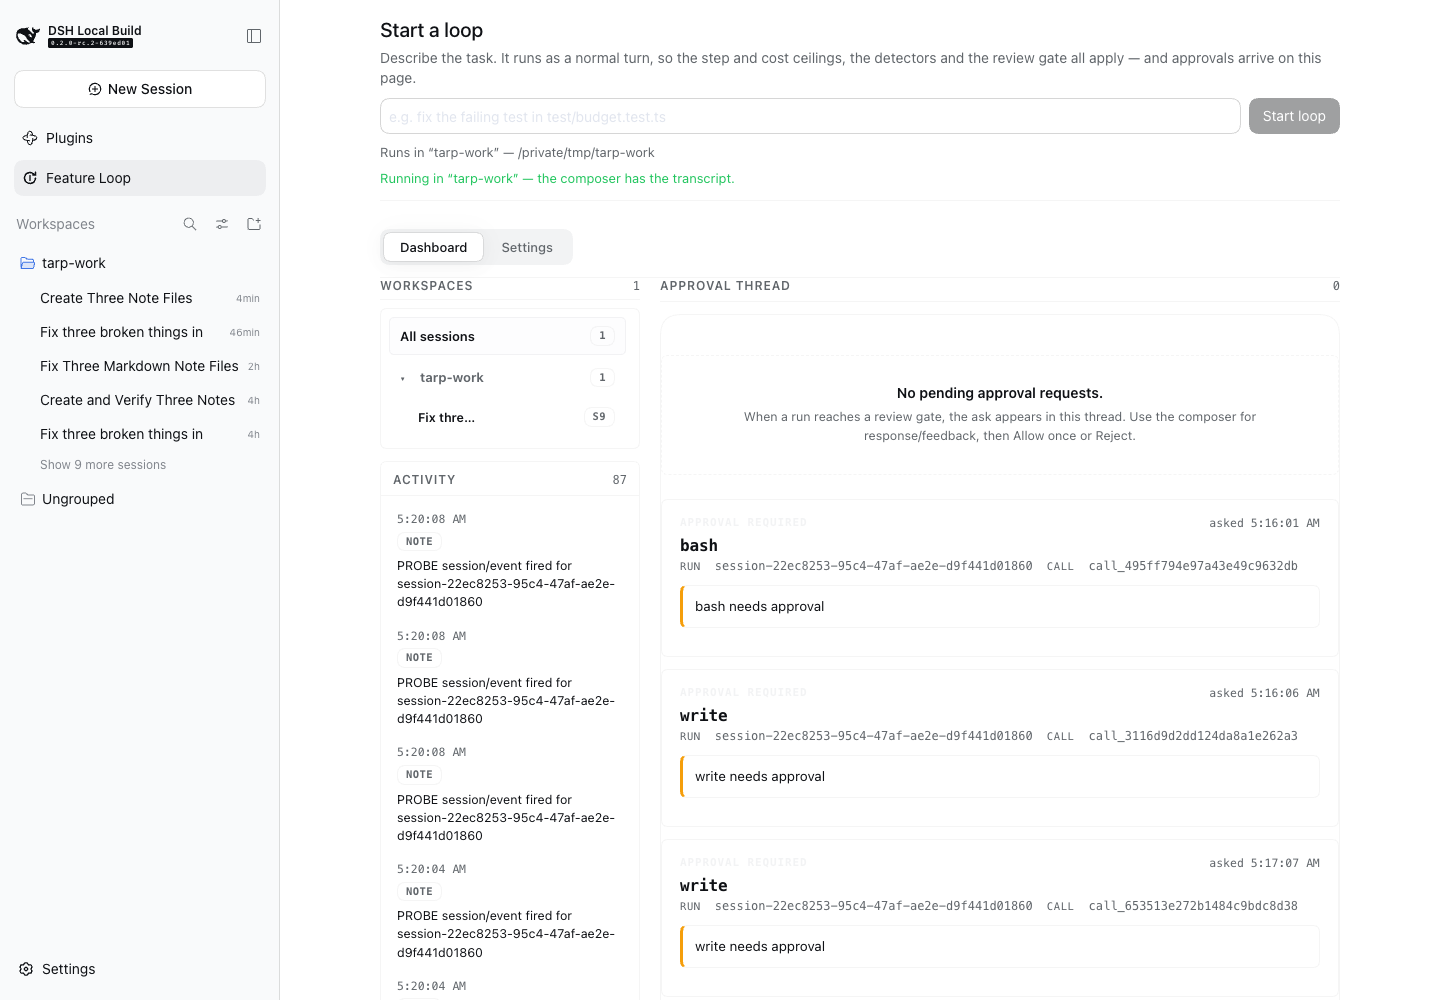
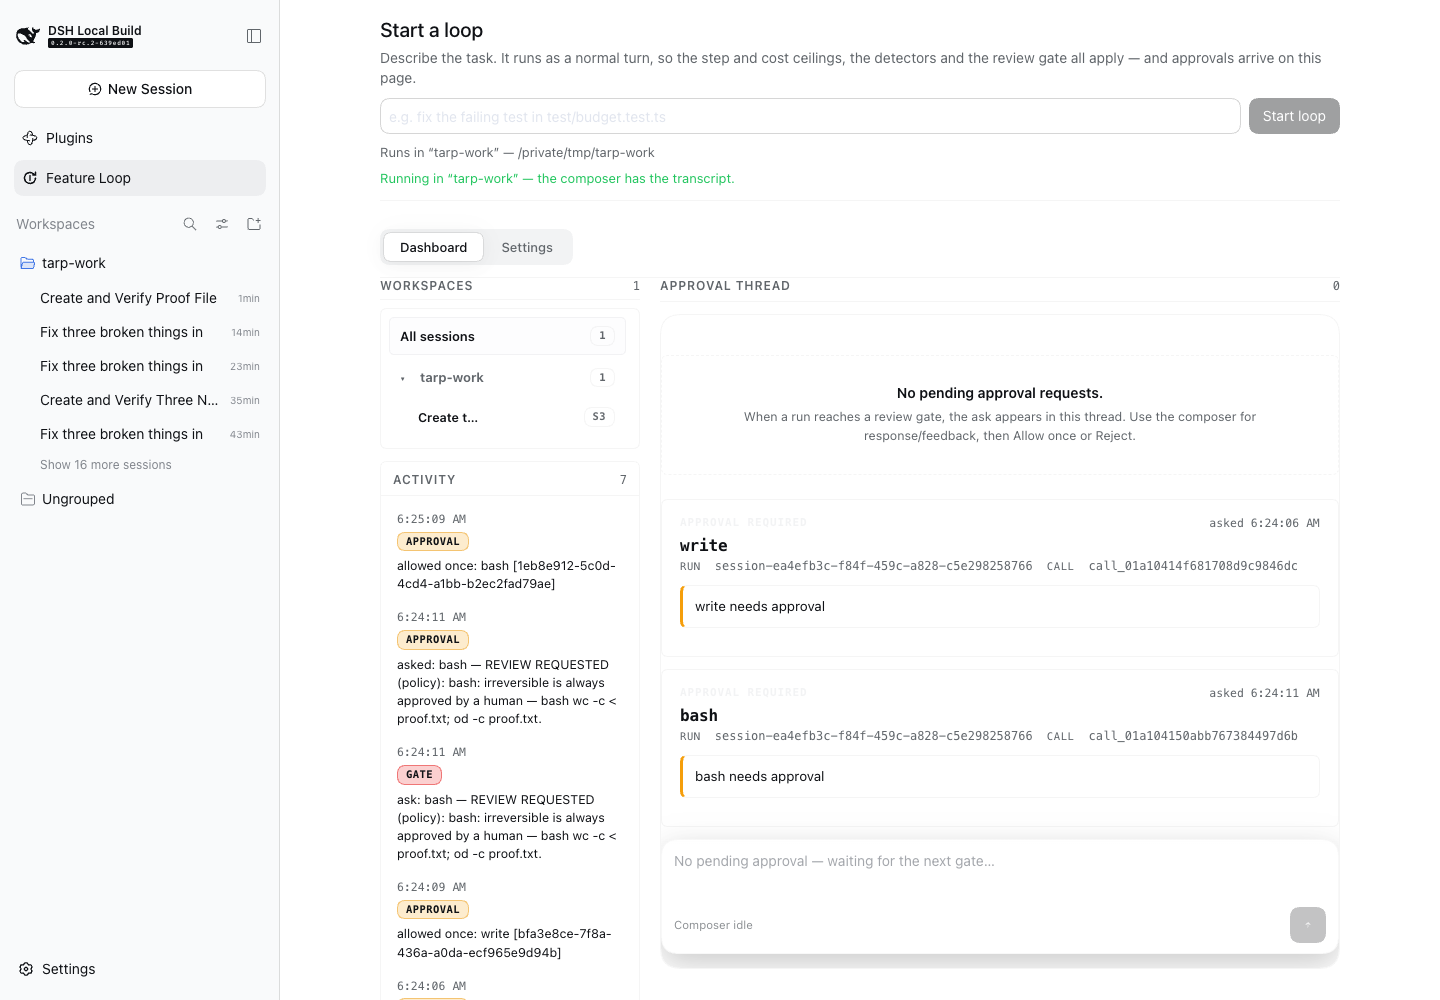
Stop the run record from depending on a load that can never settle
`runlog.ts` was imported with `await import('./runlog.ts')` inside the turn
closer, justified as keeping node:fs out of the plugin's static graph — a
justification that stopped being true when `readFileSync` became a static import
at the top of the file. A dynamic load that never settles leaves the promise
pending FOREVER: no rejection, so the caller's .catch never runs, no record is
written, and nothing is logged. Static now, so it resolves at load.

Also registers the history listener with { global: true }, the documented switch
for "receive the event regardless of context filter checks" — the harness emits
session/event with this bound to a per-session scope carrier, and a hook a scope
filter rejects is dropped silently.

And records §1bw, which is honest about what is still wrong: on a real dsh web
run the listener fires (70 events), a turn/end is among them, asTurnEnd accepts
it, recordTurn is entered — and no record lands. Two candidate causes remain
unseparated, so the entry says so instead of asserting one. It also corrects the
causal claim I attached to §1bp–§1bv: those figures were each measured and each
wrong, but "the harness path never wrote a record" was an INFERENCE from the
absence of one, and the listener is demonstrably running.

diff --git a/src/plugin.ts b/src/plugin.ts
@@ -78,13 +78,13 @@ import { readFileSync } from 'node:fs'
 import { homedir } from 'node:os'
 import { join } from 'node:path'
 import { budgetStopText, budgetWarnText, escalationText, reviewText } from './messages.ts'
-// Type-only: `summarize` reads data, never the disk, so the module ships no
-// fs imports into the plugin's graph (the same stance `metrics.ts` documents
-// for its own `RunRecord` import). The history I/O (`runlog.ts`) is loaded
-// dynamically only when a deployment configures `optimize.history`, so a
-// deployment that never asked for run-history keeps the plugin's graph
-// exactly as it was before this feature existed.
+// Type-only: `summarize` reads data, never the disk, so that module ships no
+// fs imports of its own. `runlog.ts` — which does touch the disk — is imported
+// STATICALLY on purpose; it used to be a dynamic import inside the turn closer,
+// and a load that never settles loses the record with no error at all
+// (KNOWN-ISSUES §1bw). A static import resolves at load, before any run.
 import { summarize } from './metrics.ts'
+import { appendRecord, readRecords, specFingerprint, taskKeyOf } from './runlog.ts'
 import type { RunRecord } from './runlog.ts'
 import type { RunOutcome } from './runlog.ts'
 
@@ -928,14 +928,22 @@ function outcomeOf(reasonKind: string, policy: FeatureLoopPolicy, steps: number)
  * turns a failed append into a feed line, and this function itself never
  * catches: a record that failed to land must be visible, not swallowed.
  *
- * Two loads are dynamic, both deliberate:
+ * `runlog.ts` is imported STATICALLY, and that is a fix rather than a style:
+ * it used to be `await import('./runlog.ts')` here, justified as keeping
+ * `node:fs` out of the plugin's static graph — but `readFileSync` from
+ * `node:fs` has been a static import at the top of this file for some time, so
+ * the justification was stale and the cost was the defect.
  *
- * - `runlog.ts` (fs + crypto) is imported only here so the plugin's static
- *   graph ships no `node:fs` (see the import comment at the top of this
- *   module). `metrics.ts` is static because it is pure arithmetic.
- * - `optimize.ts` is NOT imported: `planEnvelope`'s P95 derivation belongs to
- *   the CLI's pre-run planning, not to a per-turn hook. What the dashboard
- *   needs is the roll-up (`summarize`), which is already imported statically.
+ * Measured 2026-10-04 on a real web run: the listener fired, `asTurnEnd`
+ * accepted the `turn/end`, this function was entered (its first statement
+ * printed a feed note), and the very next statement — the dynamic import —
+ * never resolved. No rejection, so the caller's `.catch` never ran, no record
+ * was written and nothing was logged. A load that never settles loses the write
+ * silently, which is the worst shape a dependency can have.
+ *
+ * `optimize.ts` is still NOT imported: `planEnvelope`'s P95 derivation belongs to
+ * the CLI's pre-run planning, not to a per-turn hook. What the dashboard needs is
+ * the roll-up (`summarize`), which is already imported statically.
  *
  * @param input - the closed turn and everything the record is built from.
  */
@@ -977,7 +985,6 @@ function turnStartTime(session: unknown, turn: number): number | undefined {
 
 async function recordTurn(input: TurnRecordInput): Promise<void> {
   const { session, event, openedAt, options, policyFor, resolveAgent, state, historyPath } = input
-  const runlog = await import('./runlog.ts')
   const agent = agentOfSession(session, resolveAgent)
   const policy = policyFor(agent)
   const snapshot = policy.budget?.snapshot()
@@ -990,7 +997,7 @@ async function recordTurn(input: TurnRecordInput): Promise<void> {
     endedAt: event.time ?? now,
     pass: 1,
     passes: 1,
-    taskKey: spec === undefined ? 'none' : runlog.taskKeyOf(spec.goal),
+    taskKey: spec === undefined ? 'none' : taskKeyOf(spec.goal),
     outcome: outcomeOf(event.reasonKind, policy, steps),
     steps,
     maxSteps: spec?.maxSteps ?? 0,
@@ -1020,14 +1027,14 @@ async function recordTurn(input: TurnRecordInput): Promise<void> {
     // fire, however many reviews the loop had actually requested. The count was
     // on `policy.router` the whole time, exposed by its own `stats()`.
     reviewFraction: policy.router.stats().fraction,
-    specFingerprint: spec === undefined ? 'none' : runlog.specFingerprint(spec),
+    specFingerprint: spec === undefined ? 'none' : specFingerprint(spec),
   }
-  runlog.appendRecord(historyPath, record)
+  appendRecord(historyPath, record)
   // The Metrics panel reads what just landed: the roll-up is over the file,
   // not over memory, so a resumed process that never saw the earlier turns
   // still renders their history. A torn line is counted and skipped by the
   // reader, never thrown — the panel shows a smaller history, not an error.
-  const { records, malformed } = runlog.readRecords(historyPath)
+  const { records, malformed } = readRecords(historyPath)
   state.setMetrics(summarize(records, { malformed }))
 }
 

diff --git a/docs/KNOWN-ISSUES.md b/docs/KNOWN-ISSUES.md
@@ -62,6 +62,7 @@ rather than a list of letters:
 | 1bt | Zero milliseconds, round-trip |
 | 1bu | The speed axis, empty since the day it was written |
 | 1bv | The plugin path's wall clock, hiding in the event it was already reading |
+| 1bw | Open: the run record still does not land on the harness path |
 
 
 ### 1a. Nothing in this repo ran on the model it was supposed to run on
@@ -1065,6 +1066,45 @@ exist. `undefined` on both is the finding from §1bt, not a leftover.
 `turn` is one harness turn, so a loop run of many steps reports the span of the
 turn it closed. That is what the field has always meant on this path (one record
 per closed turn) and it is the duration a reader of the record is asking about.
+
+### 1bw. Open: the run record still does not land on the harness path
+
+**Status: unresolved, and every claim below is measured.** Recorded so the next
+person does not re-derive it.
+
+**Measured on a real `dsh web` run** (2026-10-04, generated web profile, real
+model, real browser, five asks settled, three files written):
+
+| observation | value |
+|---|---|
+| `session/event` listener reached? | **yes** — 70 events for one session |
+| `turn/end` among them? | **yes** — exactly 1 |
+| `asTurnEnd` verdict on it | **accepted** |
+| `recordTurn` entered? | **yes** — its first statement printed a feed line |
+| run record written? | **no** — the history file is unchanged, and `metrics` is absent from `/api/state` |
+
+**Two candidate causes, not yet separated:**
+
+1. the append itself never completing (a settled promise that does nothing), and
+2. `turn/end` arriving only at run teardown, so the record lands after the run
+   has already reported.
+
+**What this changes about the earlier entries.** §1bp through §1bv each read a
+figure off a file and found it wrong. That work stands on its own — the figures
+were wrong. What is **not** established is the causal claim I attached to them:
+that the harness path had never written a record at all. That was an inference
+from "no record exists", and the listener is demonstrably running. Correct the
+chain, do not discard it.
+
+**What did change, and is verified:** the listener is now registered with
+`{ global: true }` (the documented switch for "receive regardless of context
+filter checks"), and `runlog.ts` is imported **statically** rather than through
+`await import(...)` inside the turn closer. The dynamic import was justified as
+keeping `node:fs` out of the plugin's graph — which stopped being true when
+`readFileSync` became a static import at the top of the file — and a load that
+never settles loses the record with no rejection, so nothing catches it. A
+static import resolves at load, before any run. Both are improvements either way;
+neither is the cause, because both were in place for the run above.
 
 ### 1c. `make profile` hung for nine minutes with the registry unreachable
 
